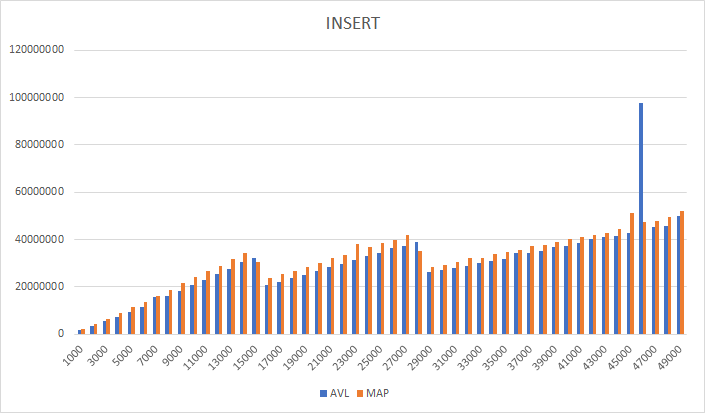
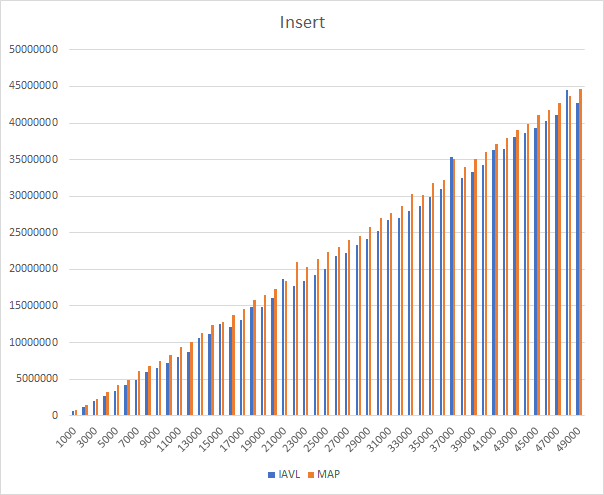
probably final

diff --git a/main.cpp b/main.cpp
@@ -258,44 +258,60 @@ private:
 
 	void RR(Node* node) {
 		leftRotation(node->up);
-		evalBalance(node);
+		if(node->balance == -1) 
+			node->left->balance = node->balance = 0;
+		else{
+			node->left->balance  = -1; 
+			node->balance = 1;
+		}
 	}
 
 	void LL(Node* node) {
 		rightRotation(node->up);
-		evalBalance(node);
-	}
-
-	void RL(Node* node) {
-		leftRotation(node->up);
-		evalBalance(node);
-		rightRotation(node->up);
-		evalBalance(node);
+		if(node->balance == 1) 
+			node->right->balance = node->balance = 0;
+		else{
+			node->right->balance = 1; 
+			node->balance = -1;
+		}
 	}
 
 	void LR(Node* node) {
-		rightRotation(node->up);
-		evalBalance(node);
 		leftRotation(node->up);
-		evalBalance(node);
+		rightRotation(node->up);
+		if( node->balance == 1 ) 
+			node->left->balance =  -11; 
+		else 
+			node->left->balance = 0;
+		if( node->balance==  -1 ) 
+			node->right->balance = 1; 
+		else 
+			node->right->balance = 0;
+
+		node->balance = 0;
 	}
 
-    void evalBalance(Node* node) {
-		node->balance = (NULL != node->right) - (NULL != node->left);
-		if (NULL != node->left) {
-			node->left->balance = (NULL != node->left->right) - (NULL != node->left->left);
-		}
-		if (NULL != node->right) {
-			node->right->balance = (NULL != node->right->right) - (NULL != node->right->left);
-		}
+	void RL(Node* node) {
+		rightRotation(node->up);
+		leftRotation(node->up);
+		if( node->balance == -1 ) 
+			node->left->balance =  1; 
+		else 
+			node->left->balance = 0;
+		if( node->balance==  1 ) 
+			node->right->balance = -1; 
+		else 
+			node->right->balance = 0;
+
+		node->balance = 0;
 	}
 
     void balance(Node* c) {
         for (Node* p = c->up; p != NULL; p = c->up) {
             if (c == p->right) {  //R
                 if (p->balance > 0) { //R
-                    if (c->balance < 0){ //LR
-                        LR(c->left);
+                    if (c->balance < 0){ //RL
+                        RL(c->left);
                     } else { //RR
                         RR(c);
                     }
@@ -310,8 +326,8 @@ private:
                 }
             } else { //L
                 if (p->balance < 0) { //L
-                    if (c->balance > 0){ //RL
-                        RL(c->right);
+                    if (c->balance > 0){ //LR
+                        LR(c->right);
                     } else { //LL
                         LL(c);
                     }
@@ -353,7 +369,7 @@ int main()
     unit_test();
     
 
-	
+	std::cout<<"WORDS  "<<"INSERT  "<<"AVL  "<<"MAP  "<<"SEARCH  "<<"AVL  "<<"MAP"<<std::endl;
 	for (int i = 1000; i < 50000; i += 1000) {
 		
 		class TreeMap<std::string, int> tree;
@@ -423,8 +439,8 @@ int main()
 		elapsedTree2 = elapsedTree2/forsize;
 		elapsedMap2 = elapsedMap2/forsize;
 		
-		std::cout<<i<<" INSERT: AVL: "<<elapsedTree1<<" MAP: "<<elapsedMap1;
-		std::cout<<" SEARCH: AVL: "<<elapsedTree2<<" MAP: "<<elapsedMap2<<std::endl;
+		std::cout<<i<<"  "<<elapsedTree1<<"  "<<elapsedMap1<<"  ";
+		std::cout<<elapsedTree2<<"  "<<elapsedMap2<<std::endl;
 
 	}
     return 0;
